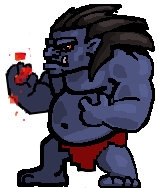
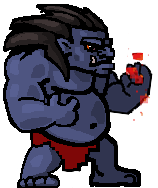
Make all wizard images face the same direction, flip character on the right to face left

diff --git a/src/components/CharacterSelect.jsx b/src/components/CharacterSelect.jsx
@@ -116,7 +116,7 @@ export default function CharacterSelect(props) {
           <div className="character-select-section">
             <div className="character-window">
               <Character
-                style={{ marginBottom: "100px" }}
+                style={{ transform: "scaleX(-1)", marginBottom: "100px" }}
                 name={props.playerTwoCharacter}
               />
             </div>

diff --git a/src/components/Game.jsx b/src/components/Game.jsx
@@ -140,7 +140,10 @@ export default function Game(props) {
 
       <div className="characters-container">
         <Character name={props.playerOneCharacter} />
-        <Character name={props.playerTwoCharacter} />
+        <Character
+          name={props.playerTwoCharacter}
+          style={{ transform: "scaleX(-1)" }}
+        />
       </div>
     </div>
   );
